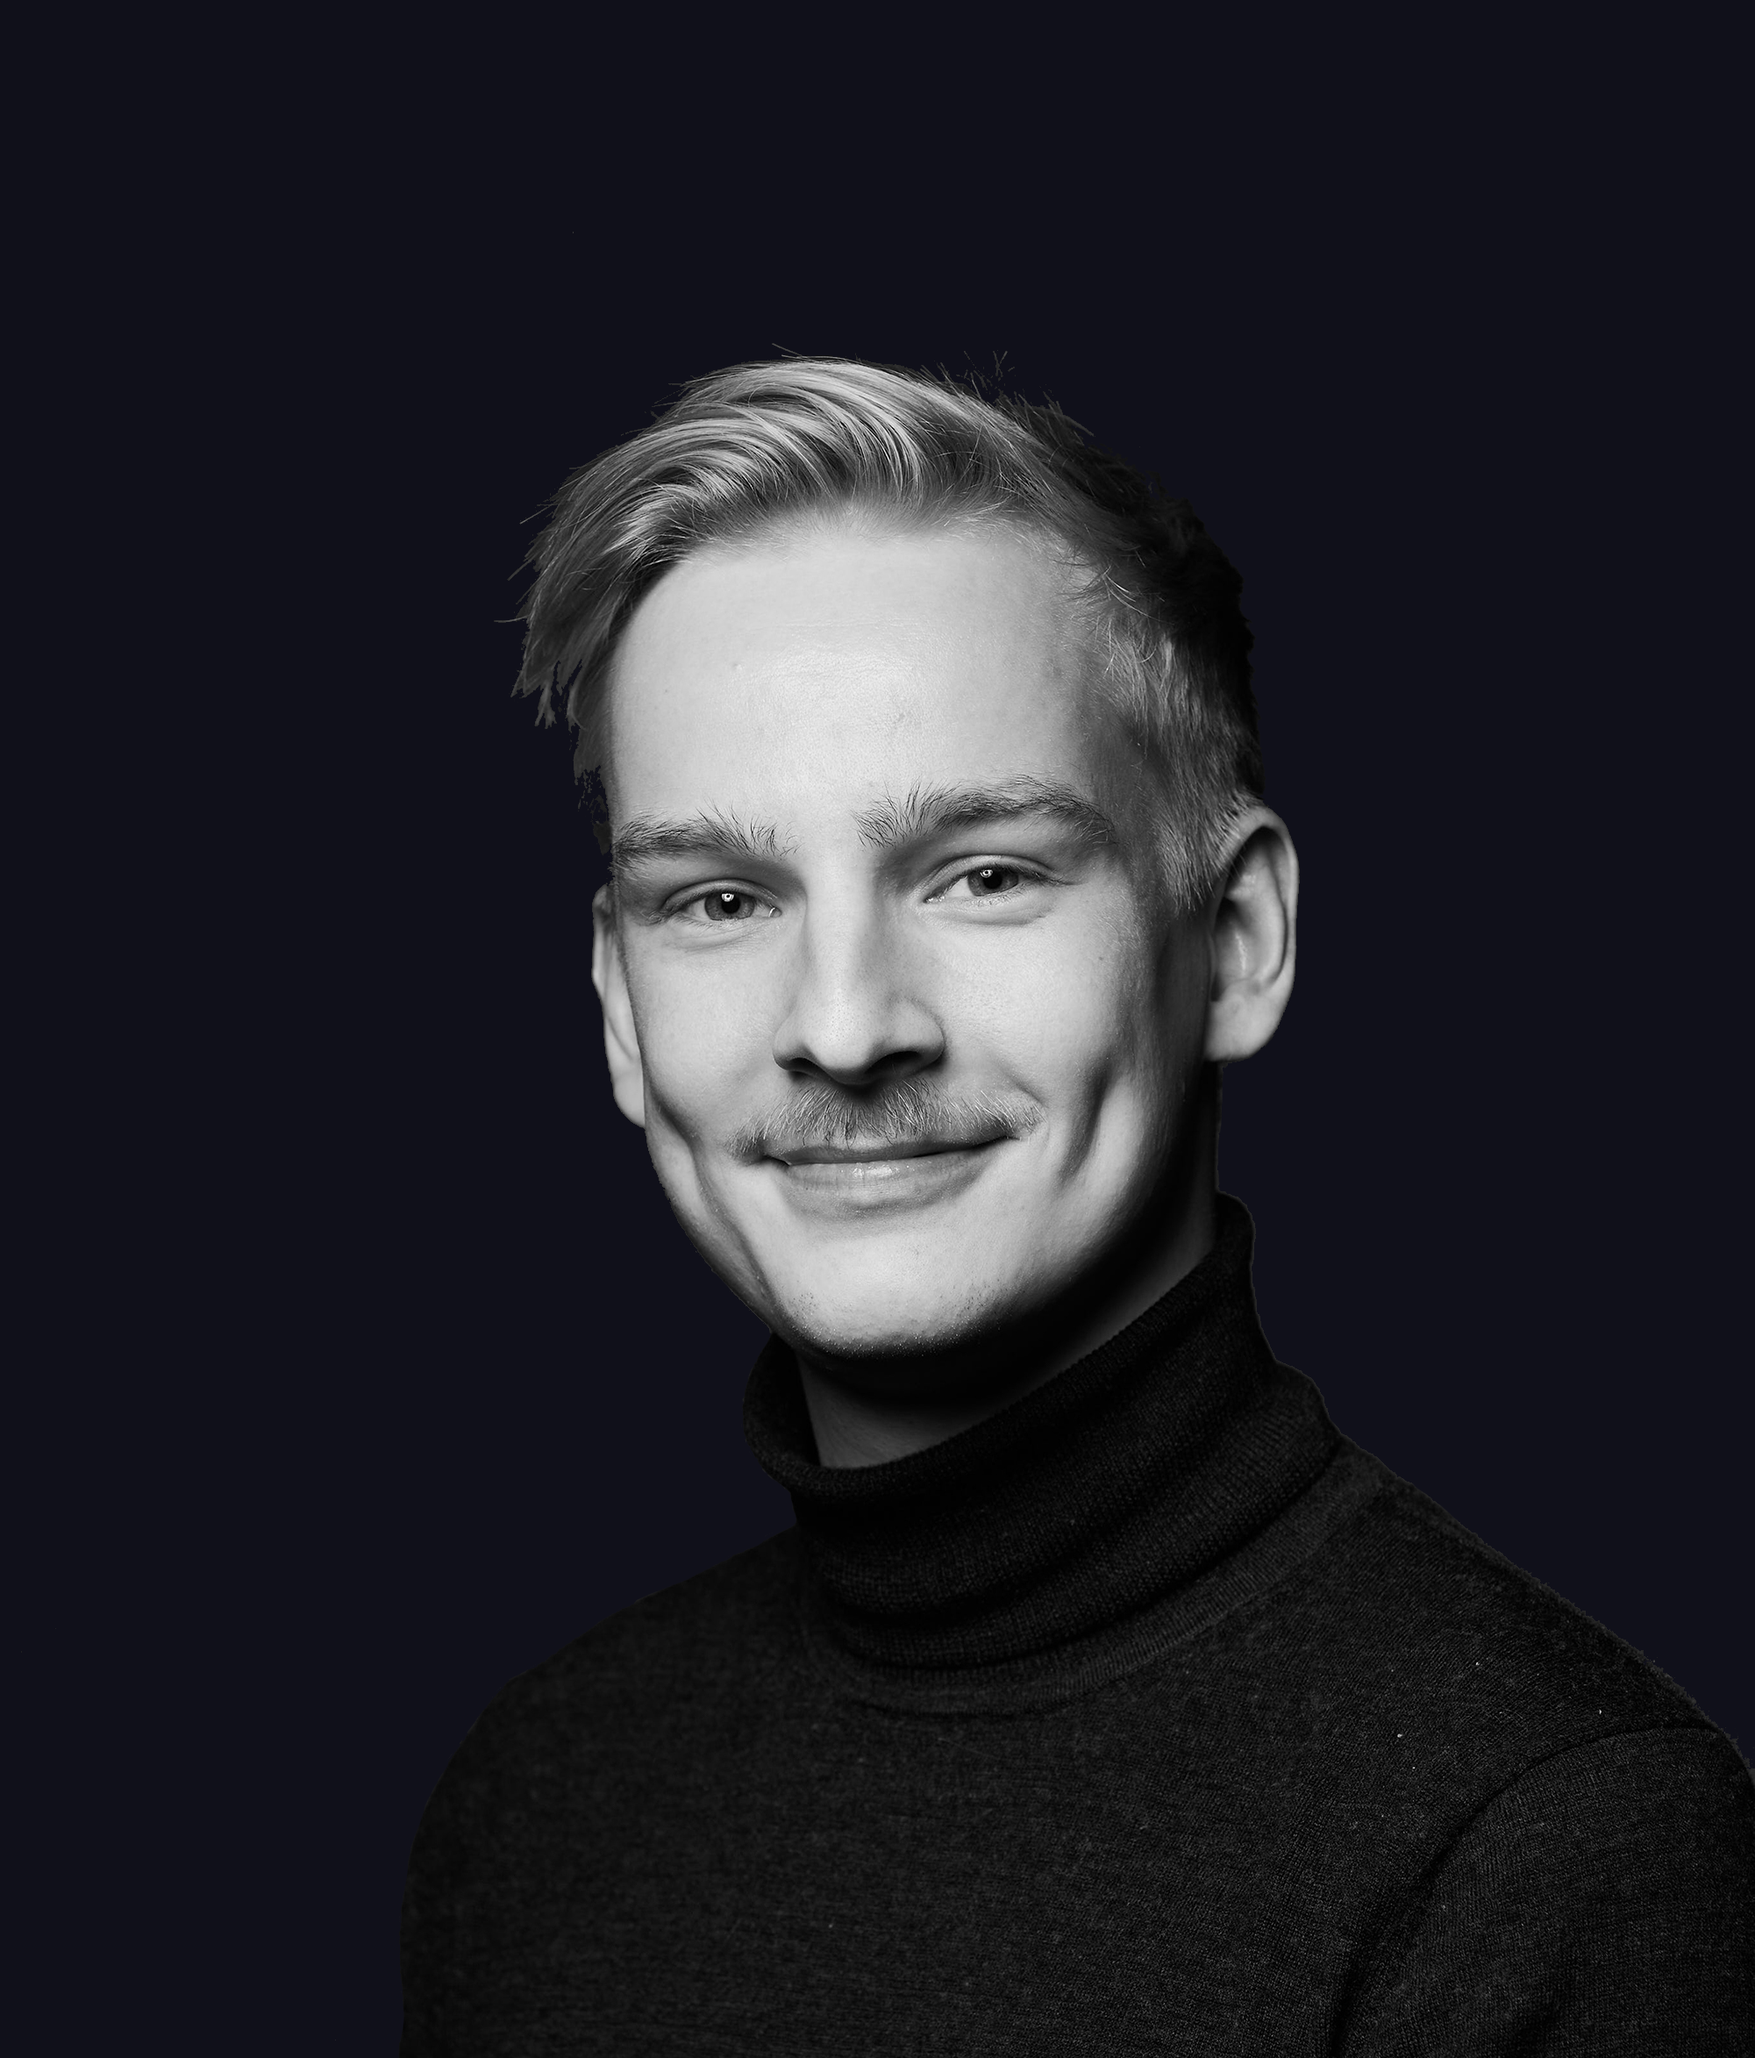
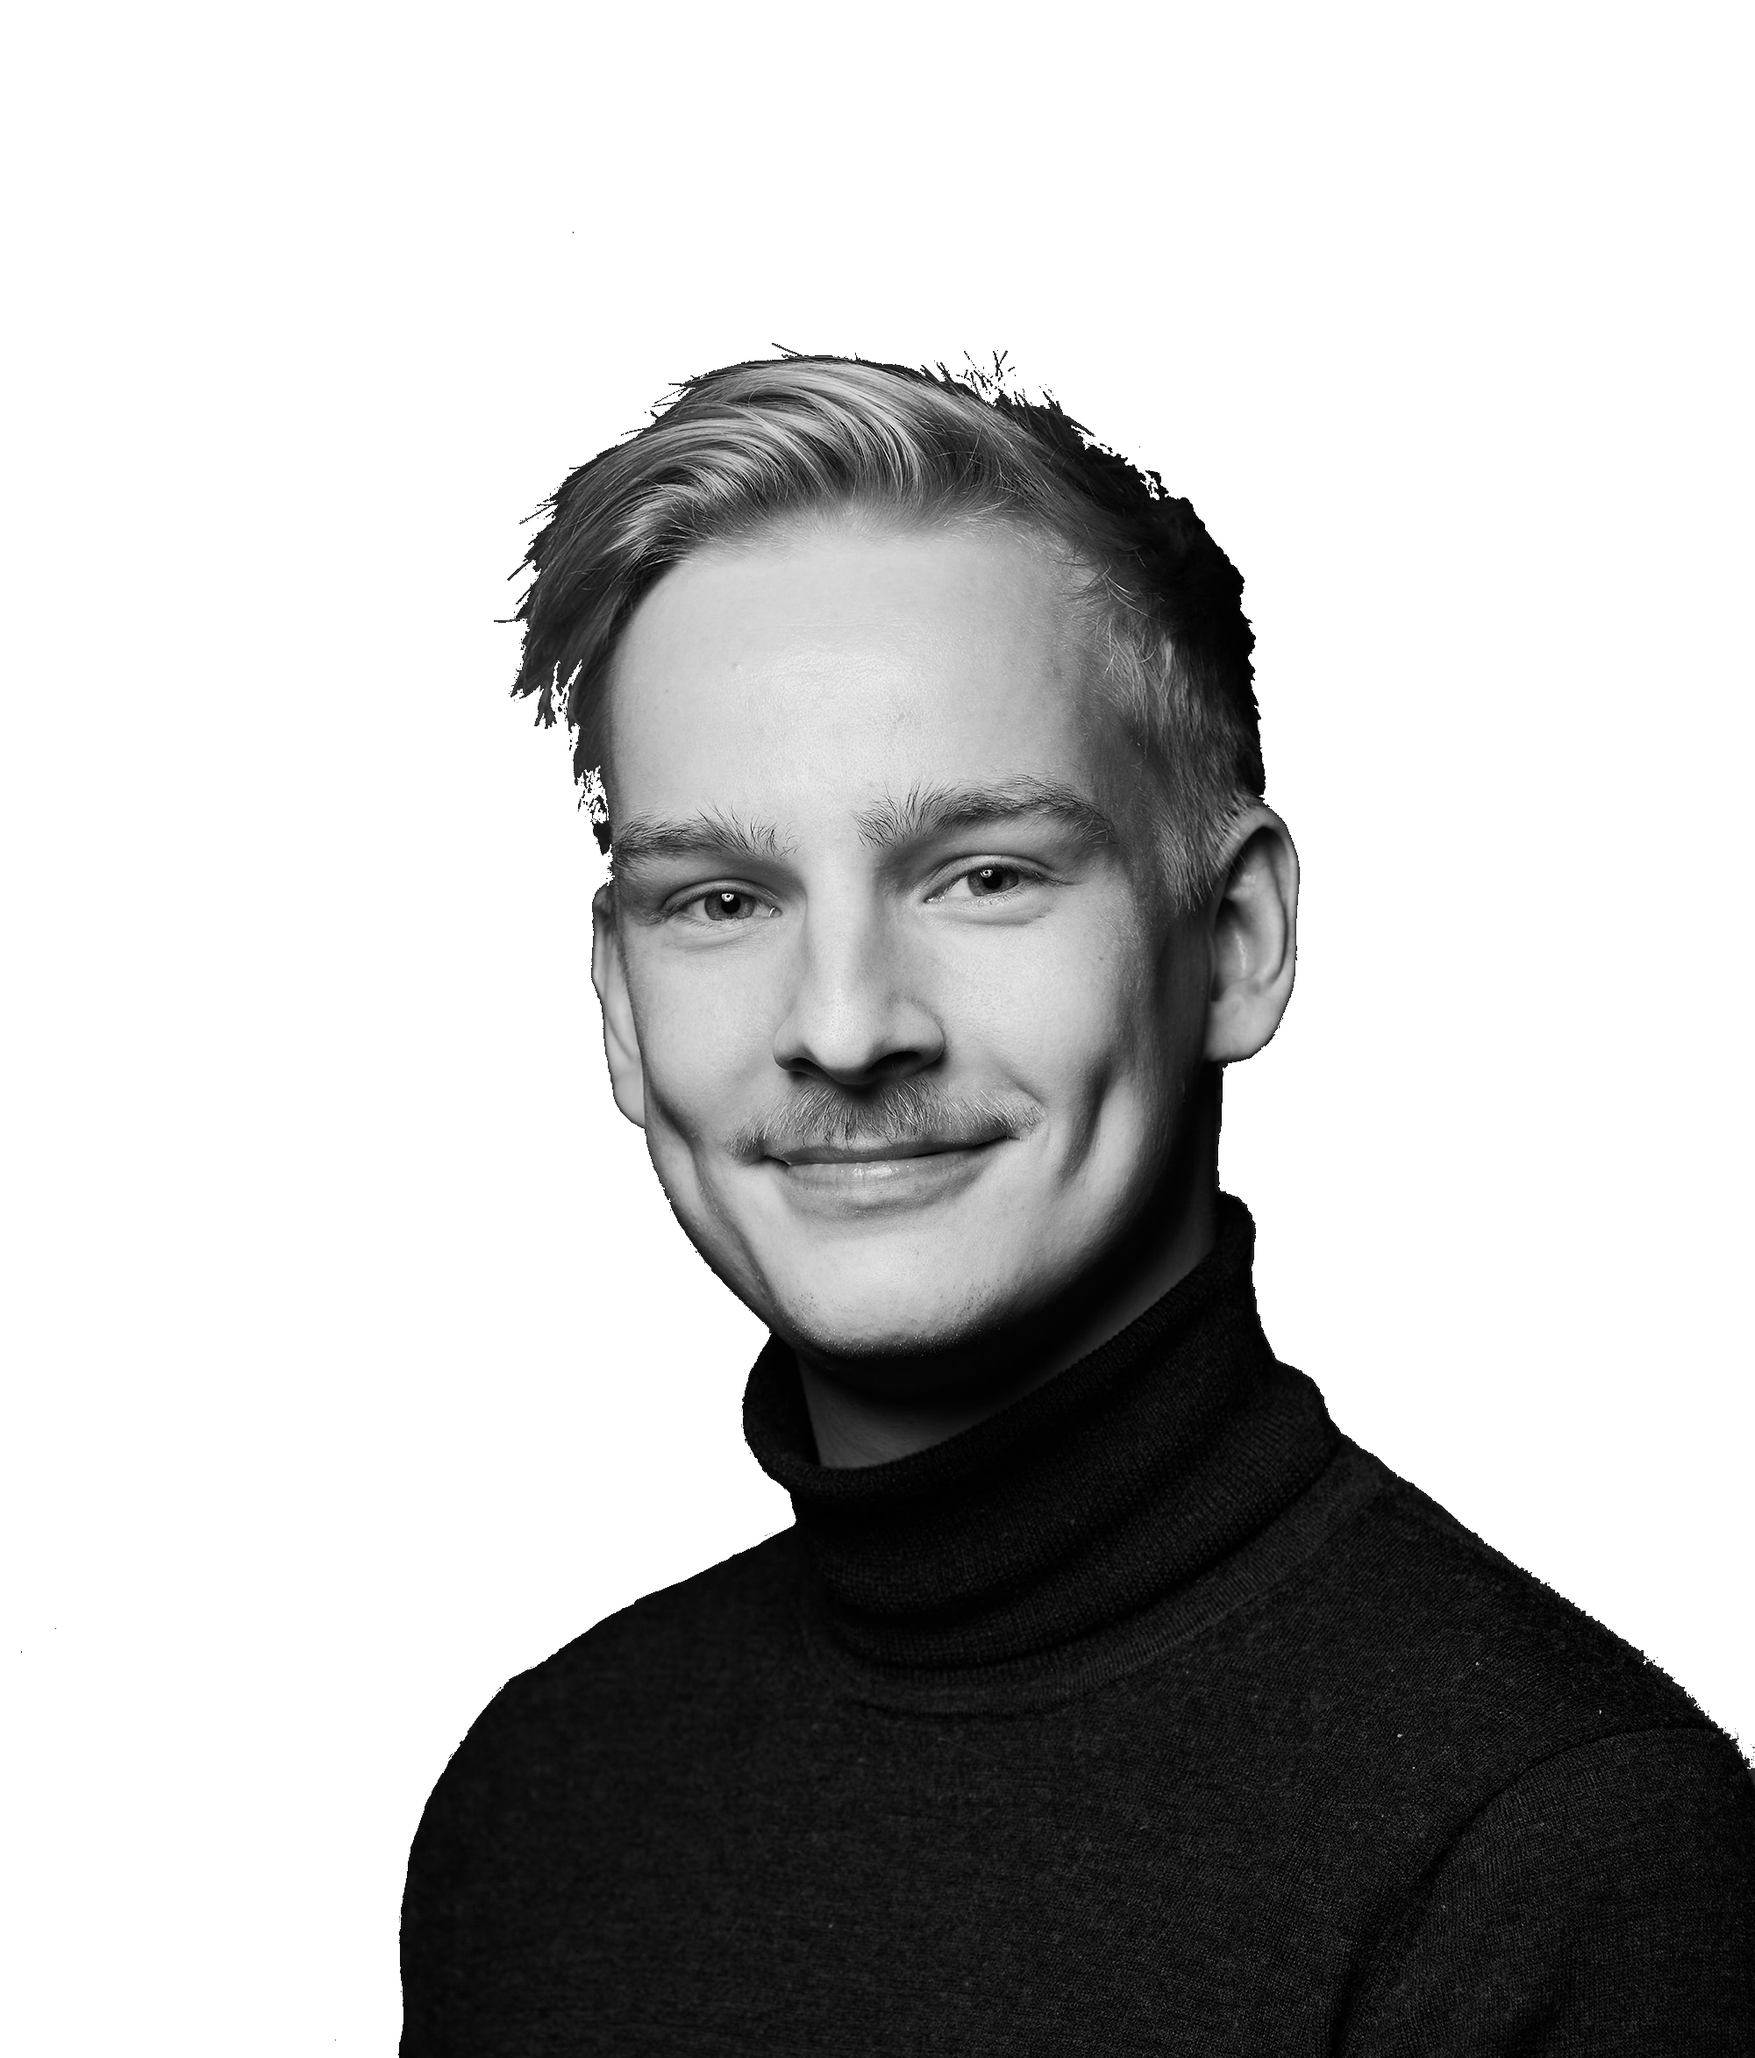
feat: tsukumi theme

diff --git a/src/theme_tsukimi.tsx b/src/theme_tsukimi.tsx
@@ -1,22 +1,22 @@
 import { DefaultTheme } from "styled-components";
 
-const primaryColor = "#10101a";
-const primaryLight = "rgba(35,37,49, 0.5)";
-const secondaryColor = "#8000ff";
-const tertiaryTextColor = "hsl(333deg, 100%, 52%)";
+const primaryColor = "rgb(37, 42, 54)";
+const primaryLight = "rgb(211, 211, 205)";
+const secondaryColor = "rgb(205, 167, 135)";
+const tertiaryColor = "rgb(110, 79, 71)";
 
-export const theme: DefaultTheme = {
+export const themeTsukimi: DefaultTheme = {
   colors: {
     primary: primaryColor,
     secondary: secondaryColor,
-    tertiary: "#fff",
+    tertiary: tertiaryColor,
     neutral: "#fff",
     gradient: `linear-gradient(200deg, ${primaryLight},${primaryColor})`,
     gradientAccent: `linear-gradient(${primaryColor}, ${secondaryColor})`,
     gradientAccentRotated: `linear-gradient(20deg, ${primaryColor}, ${secondaryColor})`,
-    textPrimary: "#ffffff",
-    textSecondary: "#000000",
-    textTertiary: tertiaryTextColor,
+    textPrimary: secondaryColor,
+    textSecondary: tertiaryColor,
+    textTertiary: "#fff",
   },
   spacing: {
     small: "4px",

diff --git a/src/components/Card.tsx b/src/components/Card.tsx
@@ -10,7 +10,8 @@ export const CardWrapper = styled.div<CardStyleProps>`
         flex-direction: row;
         border-radius: ${theme.borderRadius.large};
         padding: ${theme.spacing.large};
-        background: ${theme.colors.gradientAccentRotated};
+        color: ${theme.colors.textSecondary};
+        background: ${theme.colors.neutral};
         box-shadow: ${theme.boxshadows.medium};
     `}
 `;
@@ -35,6 +36,7 @@ const CardImage = styled.img`
   ${({ theme }) => `
         border-radius: ${theme.borderRadius.medium};
         width: 500px;
+
     `}
 `;
 
@@ -42,6 +44,7 @@ const Label = styled.div`
   ${({ theme }) => `
       padding: ${theme.spacing.medium}; 
       background-color: ${theme.colors.secondary};
+      color: ${theme.colors.textTertiary};
       border-radius: ${theme.borderRadius.medium};
       max-width: 125px;
       font-weight: bold;

diff --git a/src/App.tsx b/src/App.tsx
@@ -4,6 +4,7 @@ import "./normalize.css";
 import "./scroll.css";
 import "./animations.css";
 import LandingPage from "./pages/landing-page/LandingPage";
+import { themeTsukimi } from "./theme_tsukimi";
 
 const PortfolioApplication = styled.div`
   ${({ theme }) => `
@@ -23,7 +24,7 @@ const PortfolioApplication = styled.div`
 
 function App() {
   return (
-    <ThemeProvider theme={theme}>
+    <ThemeProvider theme={themeTsukimi}>
       <PortfolioApplication>
         <LandingPage />
       </PortfolioApplication>

diff --git a/src/animations.css b/src/animations.css
@@ -1,8 +1,7 @@
 .typewriter {
-  color: #fff;
   font-family: monospace;
   overflow: hidden; /* Ensures the content is not revealed until the animation */
-  border-right: 0.15em solid #fff; /* The typwriter cursor */
+  border-right: 0.15em solid rgb(205, 167, 135); /* The typwriter cursor */
   white-space: nowrap; /* Keeps the content on a single line */
   margin: 0 auto; /* Gives that scrolling effect as the typing happens */
   letter-spacing: 0.15em; /* Adjust as needed */

diff --git a/src/styled.d.ts b/src/styled.d.ts
@@ -9,6 +9,8 @@ declare module "styled-components" {
     colors: {
       primary: string;
       secondary: string;
+      tertiary: string;
+      neutral: string;
       gradient: string;
       gradientAccent: string;
       gradientAccentRotated: string;
